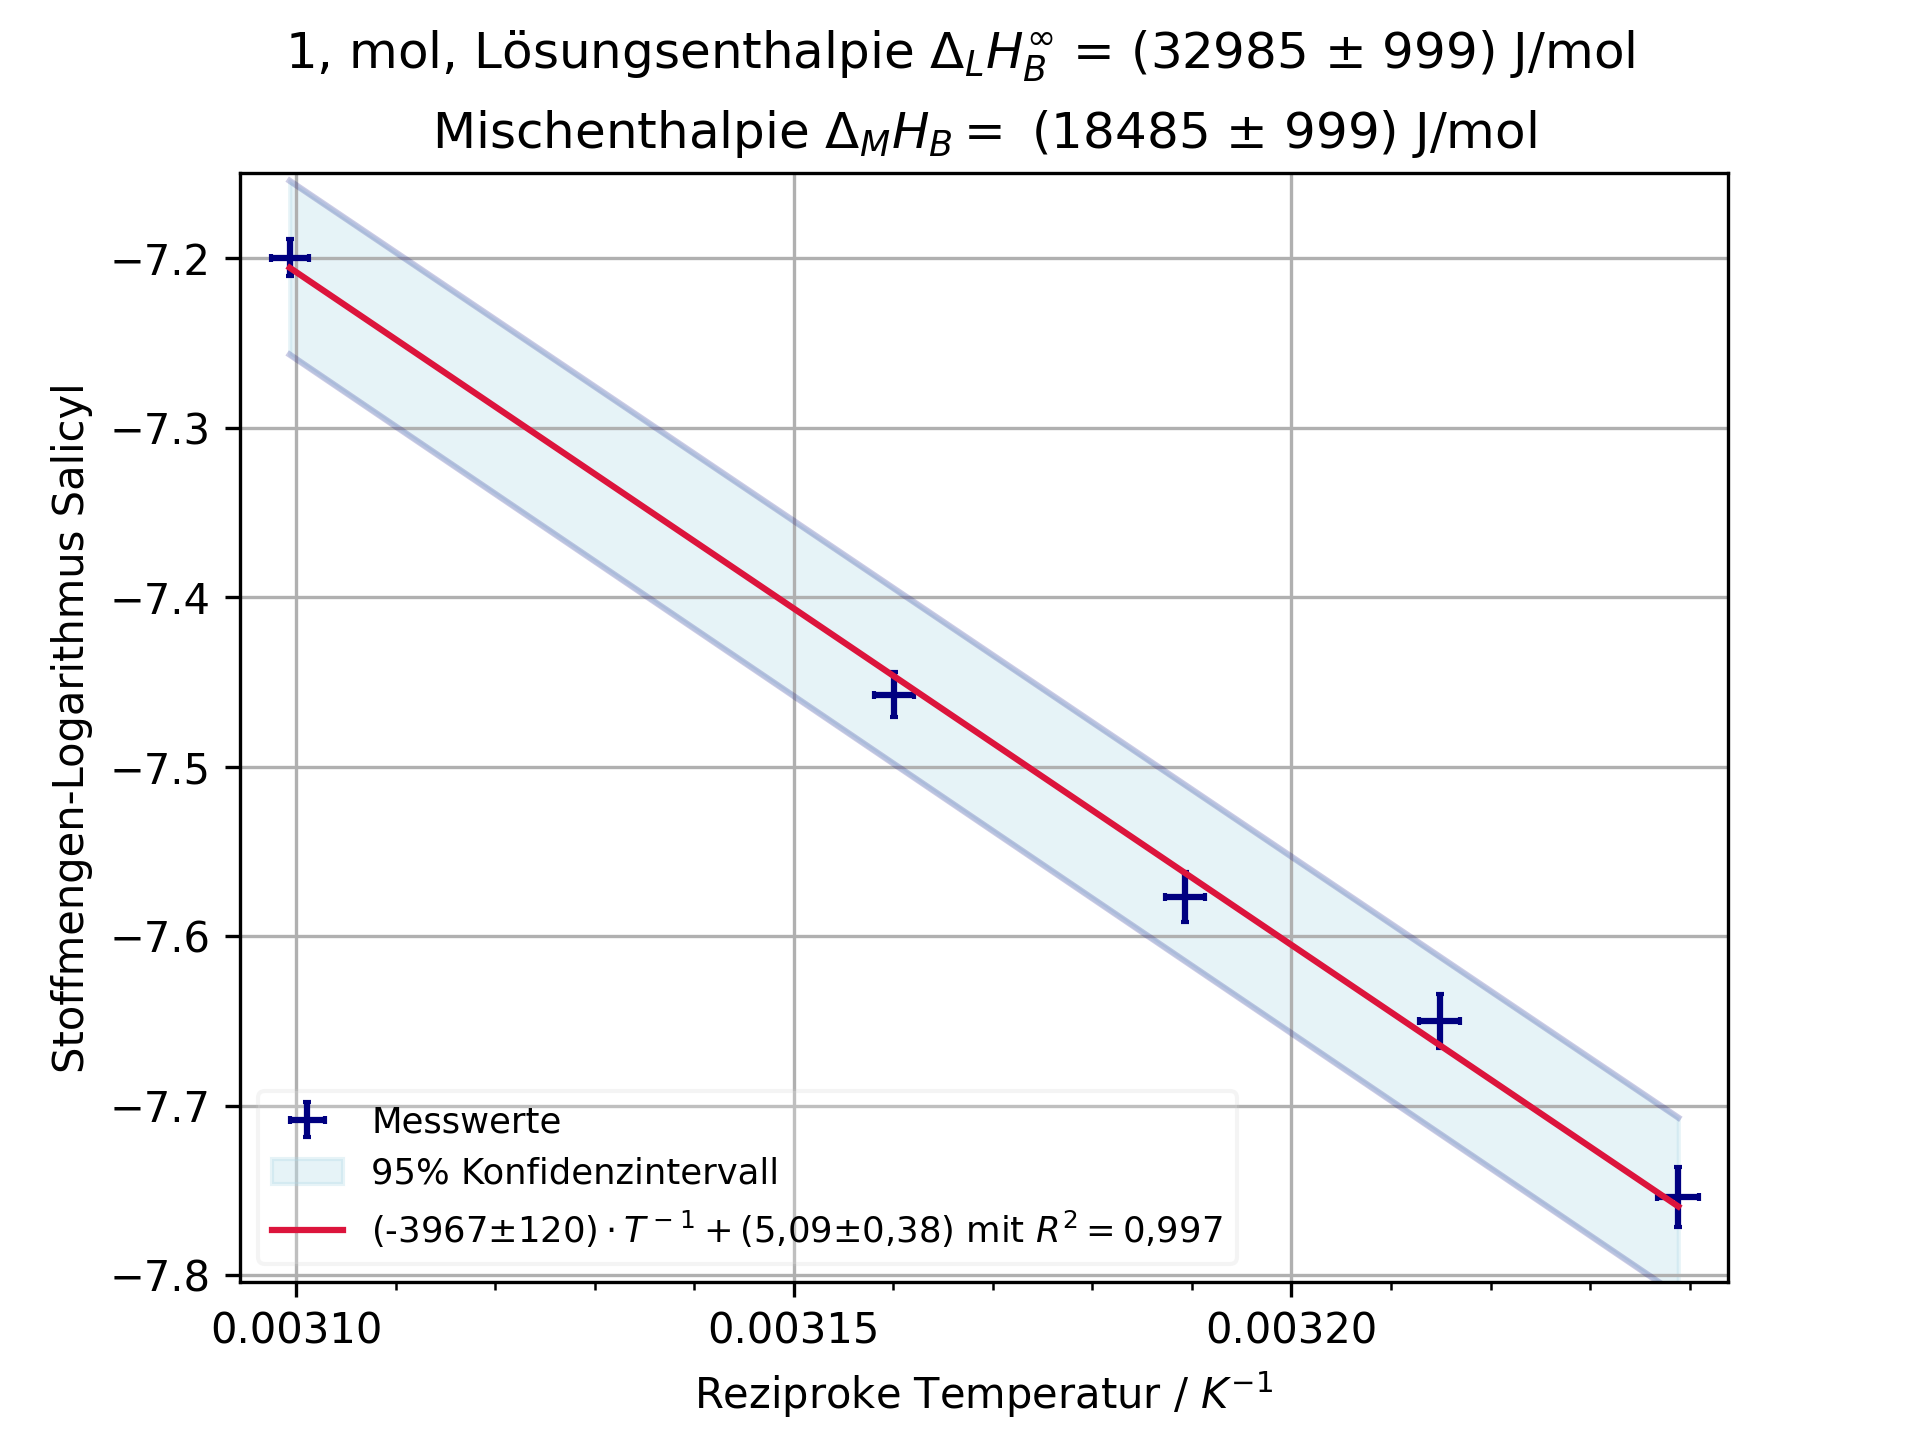
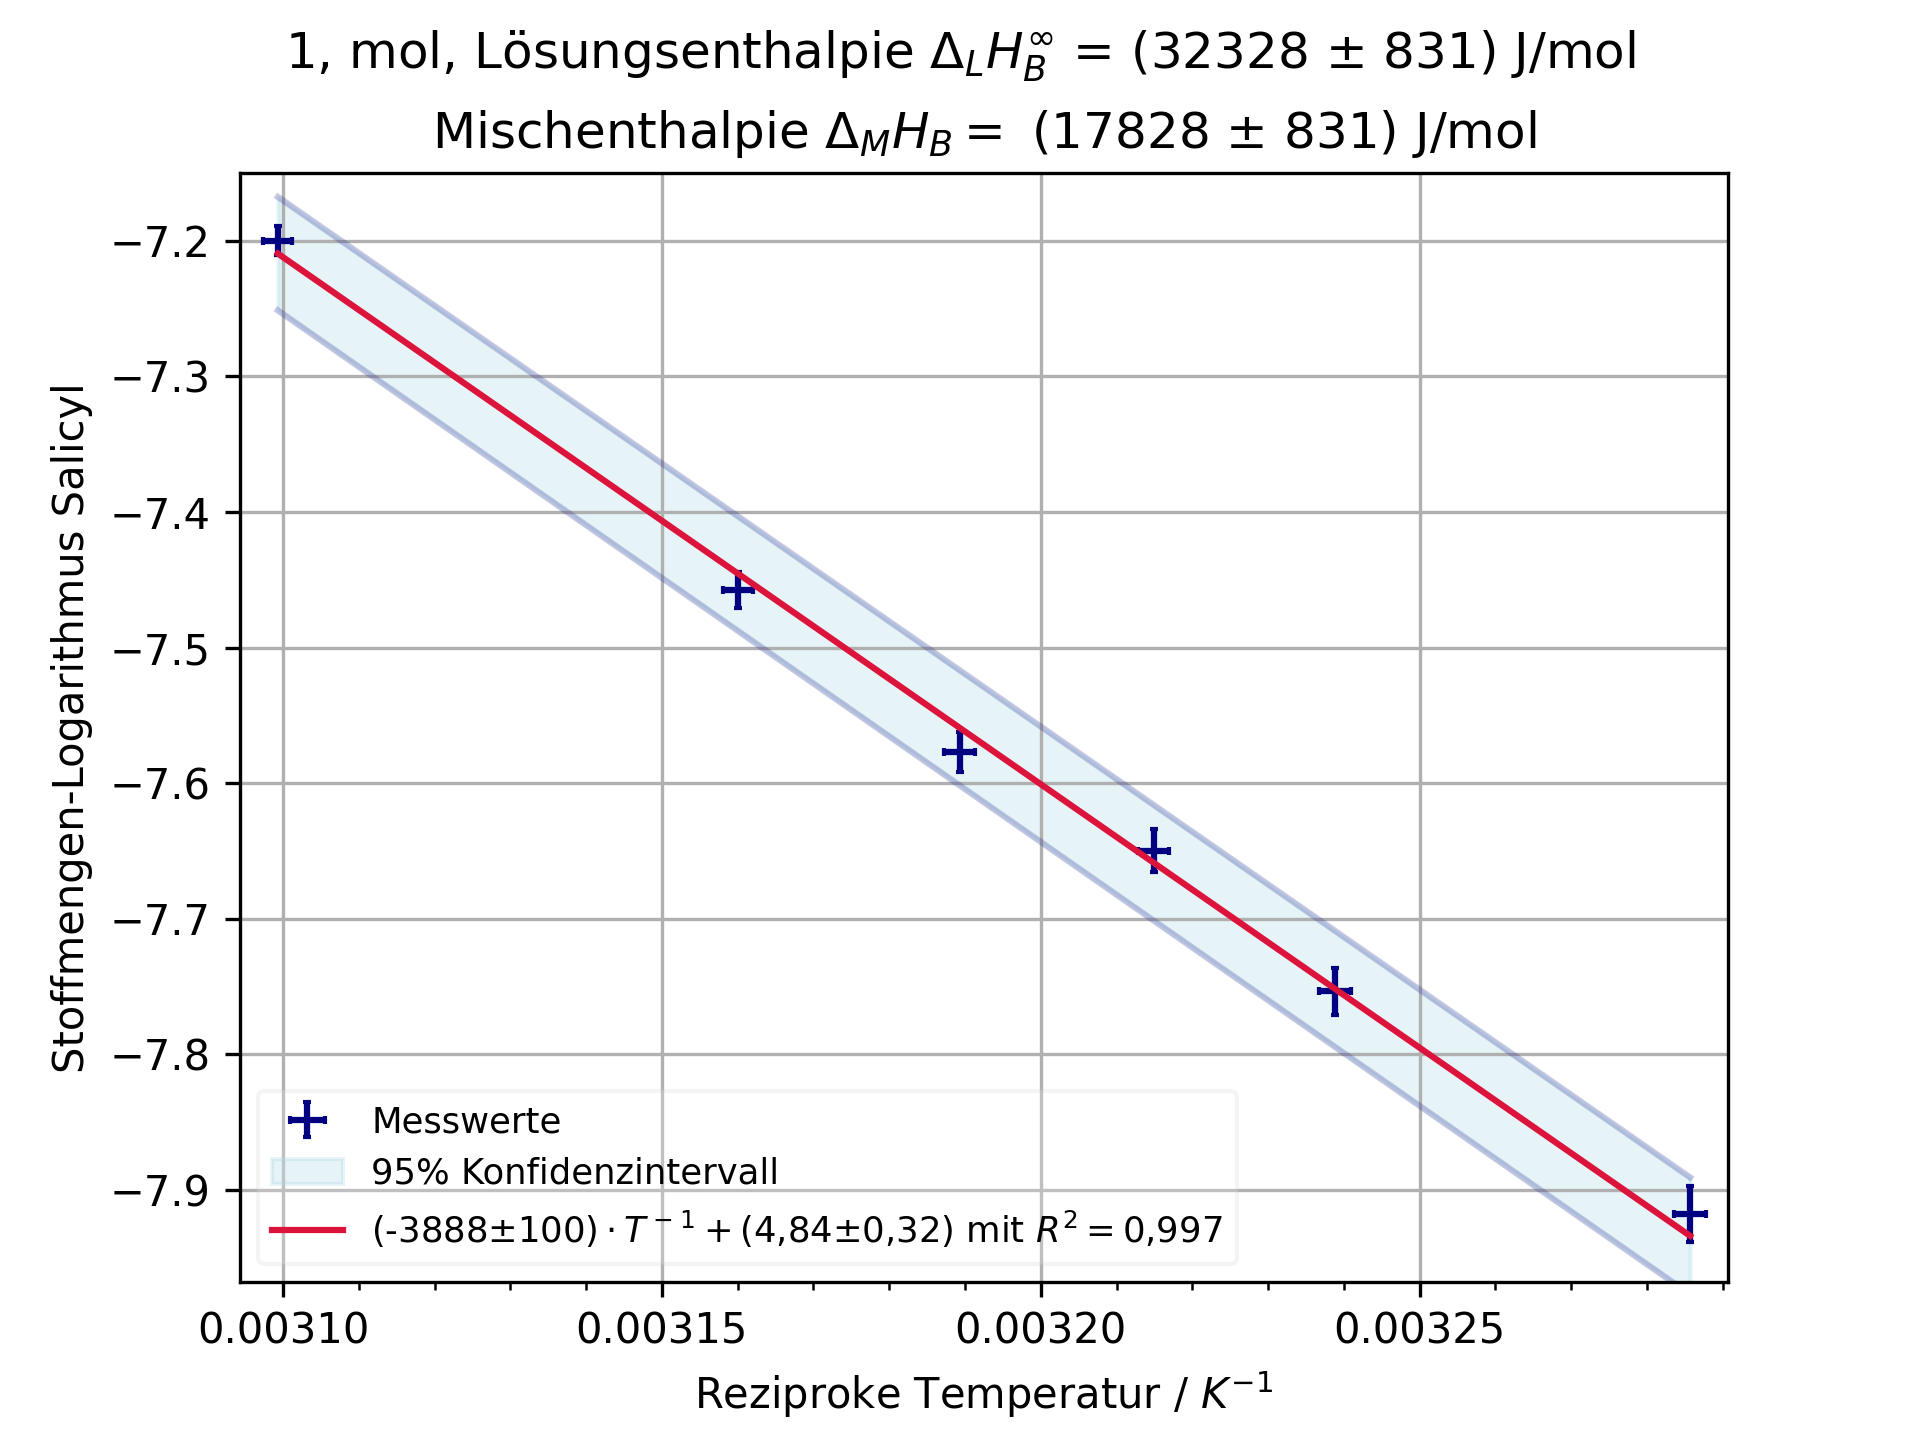
modified:   Daten/Wasser_WS_25_26.csv 	modified:   "L\303\266sungen.py" 	modified:   PNG/Wasser_WS_25_26/Wasser A1 Salicyl.png 	modified:   PNG/Wasser_WS_25_26/Wasser B1 Benzoe.png 	modified:   PNG/Wasser_WS_25_26/Wasser B1 Salicyl.png

diff --git a/Lösungen.py b/Lösungen.py
@@ -283,7 +283,7 @@ def EineGruppe(Gruppe, semester, Print = True):
 # # Mögliche Auswertmethoden:
 
 # EineAbfrage('A5', 'Salicyl', True, 6) # Einzelne Gruppe und einzelner Stoff
-EineGruppe('A2', 6) # Eine Gruppe und beide Stoffe sowie die ideale Lösung
+EineGruppe('B1', 6) # Eine Gruppe und beide Stoffe sowie die ideale Lösung
 # Ideal('A5', 6, True) # Ideale Lösung für eine Gruppe
 # AlleAbfragen([1,2,3,4,5], Print=True, Probegruppe=[])  # Alle Gruppen und Stoffe. Optional Print=True/False für Ausgabe der Ergebnisse
 # AlleAbfragen([4,5,6], Print=True, Probegruppe=['6_T(B1_S)'])  # Alle Gruppen und Stoffe. Optional Print=True/False für Ausgabe der Ergebnisse
